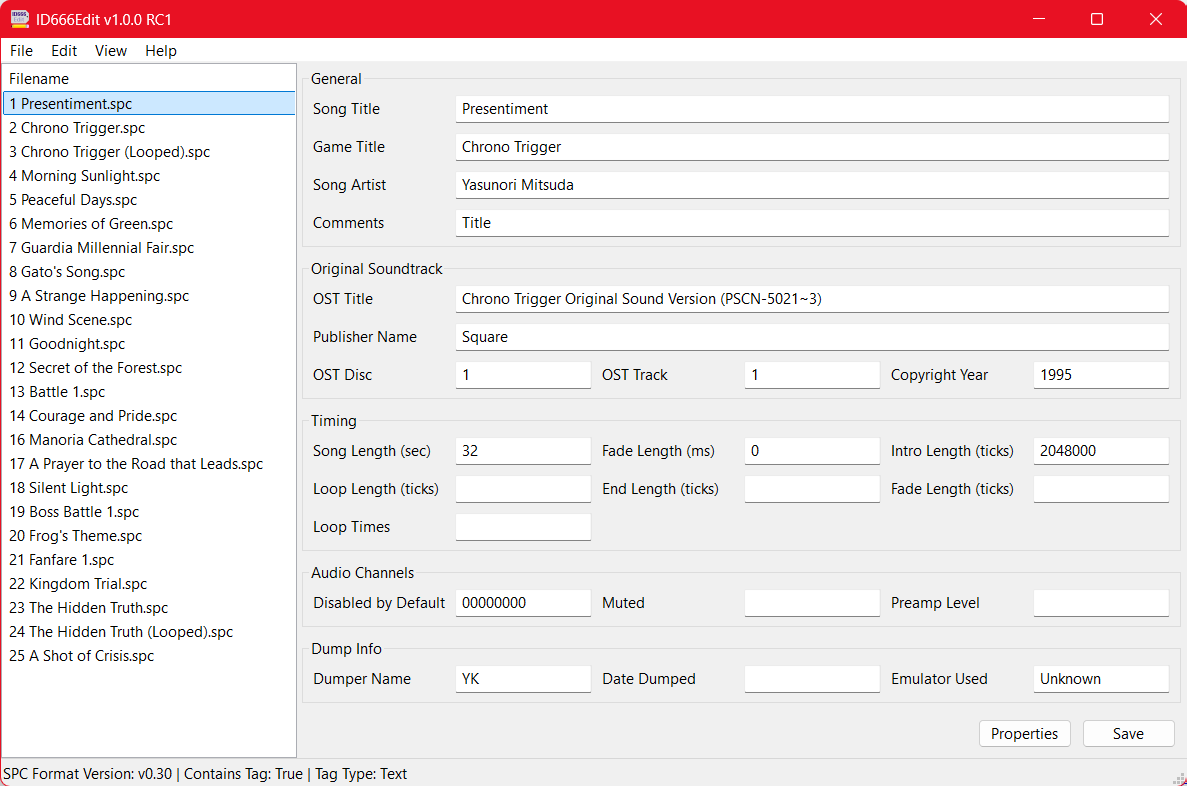
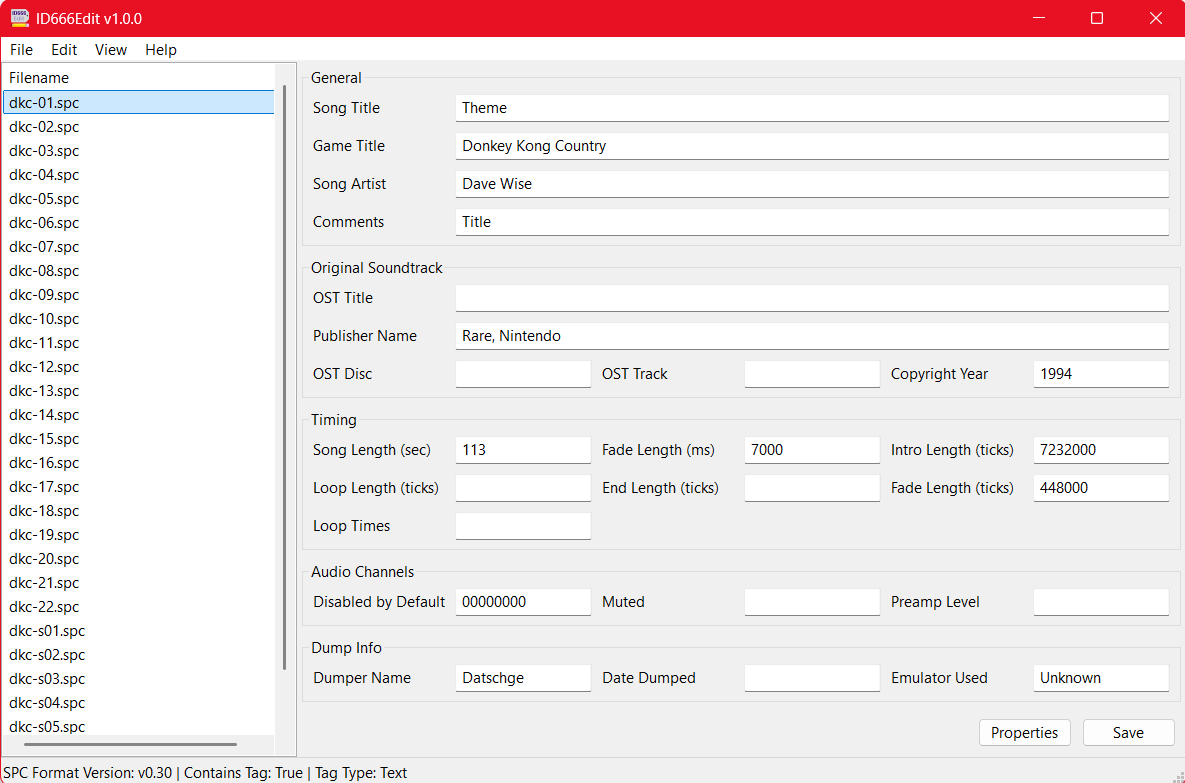
Preparing for v1.0.0 Release
-Fixed a text issue in the Increment Track Numbers dialog
-Command line program now errors when unable to save tag to filename conversions
-Created documentation

diff --git a/src/Program.cpp b/src/Program.cpp
@@ -589,8 +589,18 @@ int Program::ProcessSpcFile(const std::string& path)
     }
     else if (tagToFileNameOption->IsSpecified())
     {
-        file.TagToFileName(tagToFileNameOption->Values()[0]);
-        return result;
+        if (file.TagToFileName(tagToFileNameOption->Values()[0]))
+        {
+            return exitStatusSuccess;
+        }
+        else
+        {
+            std::cerr << "Failed to create some newly renamed files. "
+                      << "Ensure the pattern is valid and that" << std::endl
+                      << "the resulting filenames will not contain"
+                      << " illegal characters on your platform.";
+            return exitStatusFailure;
+        }
     }
     else if (incrementOption->IsSpecified())
     {

diff --git a/src/IncrementTrackWindow.cpp b/src/IncrementTrackWindow.cpp
@@ -19,7 +19,7 @@
 IncrementTrackWindow::IncrementTrackWindow(
     wxWindow* parent, 
     std::vector<std::shared_ptr<Spc::File>>& selectedFiles) 
-        : wxDialog(parent, wxID_ANY, "Increment Tr ack Numbers", 
+        : wxDialog(parent, wxID_ANY, "Increment Track Numbers", 
                    wxDefaultPosition, wxSize(300, 150)),
           selectedFiles(selectedFiles)
 {

diff --git a/docs/getting-started.md b/docs/getting-started.md
@@ -1,0 +1,197 @@
+# ID666Edit Getting Started Guide
+
+## Preparing Soundtrack for Editing
+
+Before you can begin editing the .spc files in a soundtrack, you must first
+extract the .spc files from an achive if they are in typical archive formats
+(.rsn files, .rar., .zip, etc.).
+
+## Launching the Program
+
+ID666Edit comes with two application binaries, a GUI and command-line version:
+
+| Binary | Filename (Windows) | Filename (macOS) | Filename (Linux) | Purpose |
+| - | - | - | - | - |
+| GUI | ID666Edit.exe | ID666Edit.app | ID666Edit.AppImage | Launches the GUI version of the program
+| Command Line | id666editc.exe | id666editc | id666editc | The command-line version of the program
+
+Double click the GUI binary file to launch the graphical version of the program.
+Run the command-line version of the program
+
+## Editing Soundtracks with the GUI Version
+
+### Opening .spc Files
+
+Click File -> Open to open one or more .spc files. You can select more than one
+file at a time for editing as the GUI version can edit files in bulk. 
+
+![Screenshot](../resources/images/screenshot-file-open.png)
+
+### Selecting One or More Files for Editing
+
+When you open multiple files at the same time, the first file in the list will
+be selected for editing and all of the text fields will be populated. To change
+your selection to a different file, simply click which file you want to edit in
+the left-hand pane.
+
+![Screenshot](../resources/images/screenshot.png)
+
+### Changing Tag Values for a Single File
+
+To change an individual tag value (for instance, OST Track) on the selected
+song, simply change the value in the text field and click the Save button. 
+
+![Screenshot](../resources/images/screenshot-edit-track.png)
+
+### Changing Tag Values for Multiple Files (Bulk Editing)
+
+If you select multiple files, fields with common values will be populated with
+the value that is shared across that tag field in all of the selected files
+(example highlighted in green in the screenshot). Fields that differ between the
+selected tracks will show 'multiple values' in the text field (example
+highlighted in yellow in the screenshot). You can change either common values
+or differing values to the same value by changing that text field and clicking
+the Save button.
+
+![Screenshot](../resources/images/screenshot-multiselect.png)
+
+### Determining What a Field Is For
+
+Hover over a particular field for a few seconds and a tool tip will pop up
+describing what a particular tag field is for.
+
+![Screenshot](../resources/images/screenshot-tooltip.png)
+
+### Converting Filename to Tag
+
+One useful feature is to use the filenames as a basis for updating the tags.
+For instance, there are a number of .spc files out there that only have track
+numbers in the filename but not in the OST track, presumably because OST track
+is only populated if the game had an offical OST and indicates which OST track
+number the .spc file corresponds to. However, some music players do not handle
+the filename based track numbers well, so you can use this program to convert
+the filename track number into an OST track number. 
+
+Select the files you want to import information from the filenames into tag
+values by clicking Edit -> Filename to Tag
+
+![Screenshot](../resources/images/screenshot-filename-to-tag-menu.png)
+
+A dialog box will appear allowing you to specify a filename pattern to import
+the tag values from. For the part of the filename that is the same across all
+files, type it verbatim. For the part you wish to extract, such as the track
+number that varies across each filename, use a placeholder like %track%. 
+Supported placeholders are listed in the dialog box.
+
+![Screenshot](../resources/images/screenshot-filename-to-tag-dialog.png)
+
+Once you have finished writing your pattern in the text field, click OK. 
+Double check the track number has been successfully updated on each file by
+clicking on them.
+
+### Converting Tag to Filename
+
+You can also convert tag values to new filenames. This creates a copy of the
+original file with the new name on your system rather than a rename. You will
+need to manually clean up the files if you don't want to keep the files with
+the original names.
+
+Select the files you want to convert the tag values to filenames with and click
+Edit -> Tag to Filename.
+
+![Screenshot](../resources/images/screenshot-tag-to-filename-menu.png)
+
+A dialog box will appear allowing you to specify a pattern to generate the new
+filenames with. Any part of the filename you want to be the same across all
+selected files, type verbatim. To substitute tag values in part of the filename,
+such as including a track number, use placeholders such as %track%. A list of
+supported placeholders is displayed in the dialog.
+
+![Screenshot](../resources/images/screenshot-tag-to-filename-dialog.png)
+
+Once you have finished writing your pattern in the text field, click OK. 
+Double check that copies of the files were successfully created on your system
+with the new filenames. They should appear in the same folder as the original
+files.
+
+### Incrementing Track Numbers
+
+When editing OST track numbers, you may find yourself in a situation where
+you need to increment track numbers in bulk. This can happen when you're 
+re-numbering tracks, etc. To do this, select the files you want to increment
+the tracks for and click Edit -> Increment Track Numbers.
+
+![Screenshot](../resources/images/screenshot-increment-track-menu.png)
+
+A dialog will appear allowing you to enter an amount to increment the track
+numbers of the selected files by. For instance, if you enter '2', it will
+increment each track number by adding 2 to it. Alternatively, you can enter
+a negative number to decrement the track numbers. So, if you enter -2, it will
+subtract 2 from each track number.
+
+![Screenshot](../resources/images/screenshot-increment-track-numbers-dialog.png)
+
+Once you click OK, the track numbers will be incremented. Double check that
+they incremented to the correct amount.
+
+### Editing Extended Tag Data
+
+SPC files have tag data stored both in the file header, which is the location
+for non-extended tag data, and in a RIFF chunk at the end of the file, which is
+the location of the extended tag data.
+
+This program automatically updates both the extended and non-extended tag
+data according to the SPC file format specification. If the data can be
+reasonably stored in the non-extended data, it is only stored in the 
+non-extended area. If it needs to be stored in the extended area, it will be
+stored there.
+
+## Viewing Additional Properties
+
+You can see additional information about .spc files by looking at the status
+bar at the bottom of the main window when selecting a file, such as the
+version of the .spc file, whether or not the header contains a tag, and what
+format the tag is (text, binary, or mixed).
+
+You can see even more information such as the SPC700 register values by clicking
+the Properties button.
+
+![Screenshot](../resources/images/screenshot-properties-dialog.png)
+
+## Editing Soundtracks with the Command Line Version
+
+Although the GUI version still supports bulk editing and offers most of the
+same features, the command line version does support a few additional advanced
+features like printing out specific fields across multiple files, bulk editing
+at the command line, only printing or editing files that have tag values that
+match specified values, etc. 
+
+Detailed help and usage information can be displayed using the --help switch
+
+![Screenshot](../resources/images/screenshot-command-line-help.png)
+
+### Examples
+
+#### Printing Basic Information
+
+![Screenshot](../resources/images/screenshot-command-line-print-basic.png)
+
+#### Printing Detailed Information
+
+![Screenshot](../resources/images/screenshot-command-line-print-detailed.png)
+
+#### Printing Specific Fields
+
+![Screenshot](../resources/images/screenshot-command-line-print-fields.png)
+
+#### Editing Specific Fields
+
+![Screenshot](../resources/images/screenshot-command-line-edit-fields.png)
+
+#### Filtering Songs by Tag Value
+
+![Screenshot](../resources/images/screenshot-command-line-filter.png)
+
+NOTE: in this example, @(Convert-Path *.spc) is used in lieu of globbing on
+Linux or macOS since I took this screenshot in PowerShell, which does not
+support globbing.

diff --git a/README.md b/README.md
@@ -22,6 +22,12 @@ support for multiple CPU architectures.
 - Supports incrementing OST track numbers
 - Command line version supports printing, editing, and filtering on specific fields across multiple files at the same time.
 
+## Getting Started
+
+Documentation on how to get started using the program can be found here:
+
+[Getting Started](docs/getting-started.md)
+
 ## Downloading
 
 You can download pre-compiled binaries for most major platforms and CPU 
